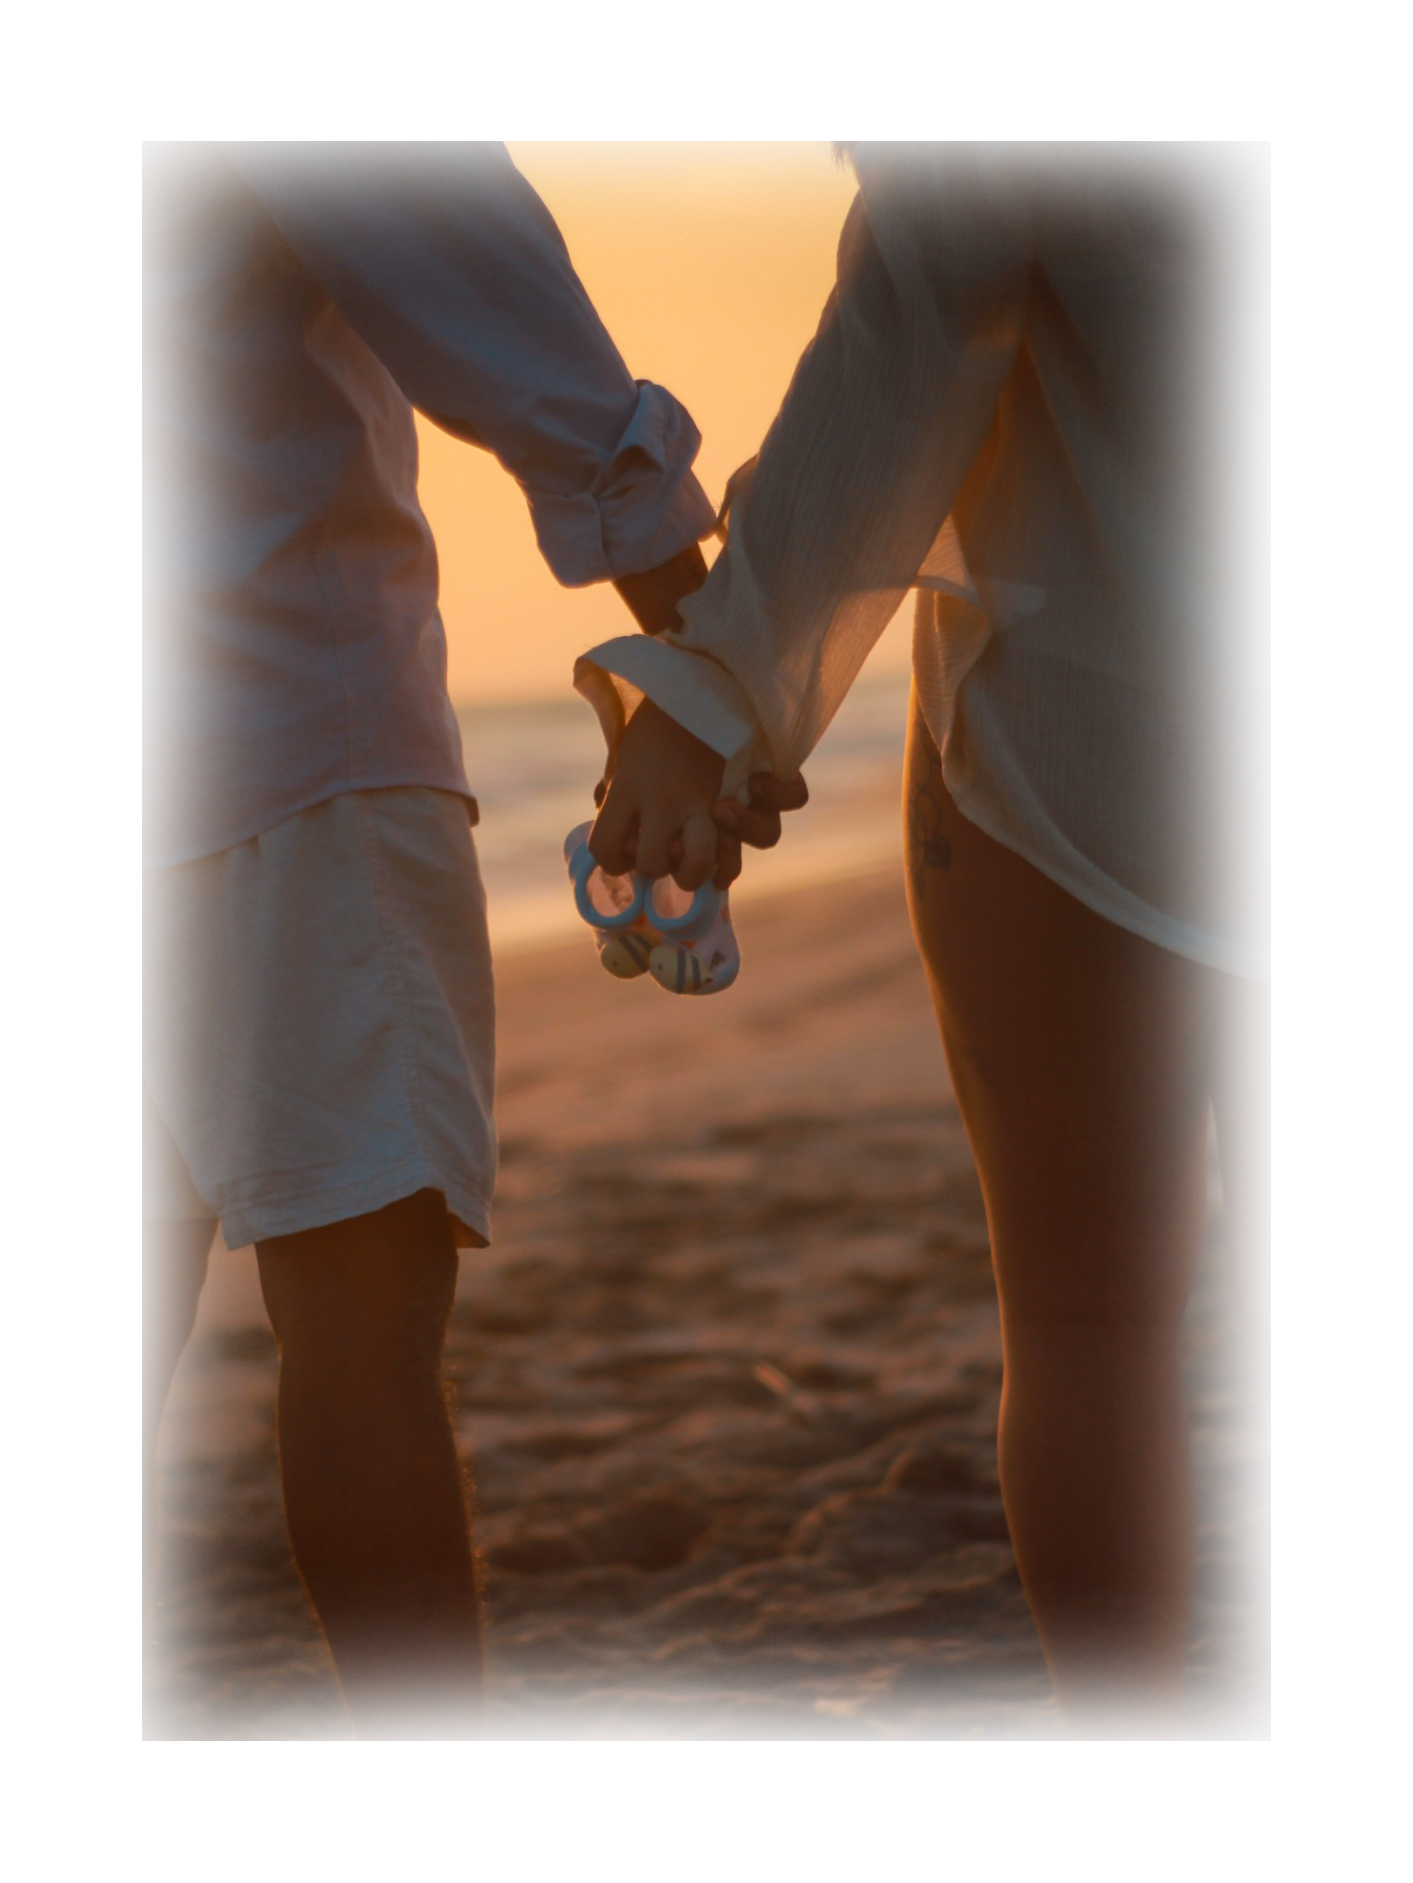
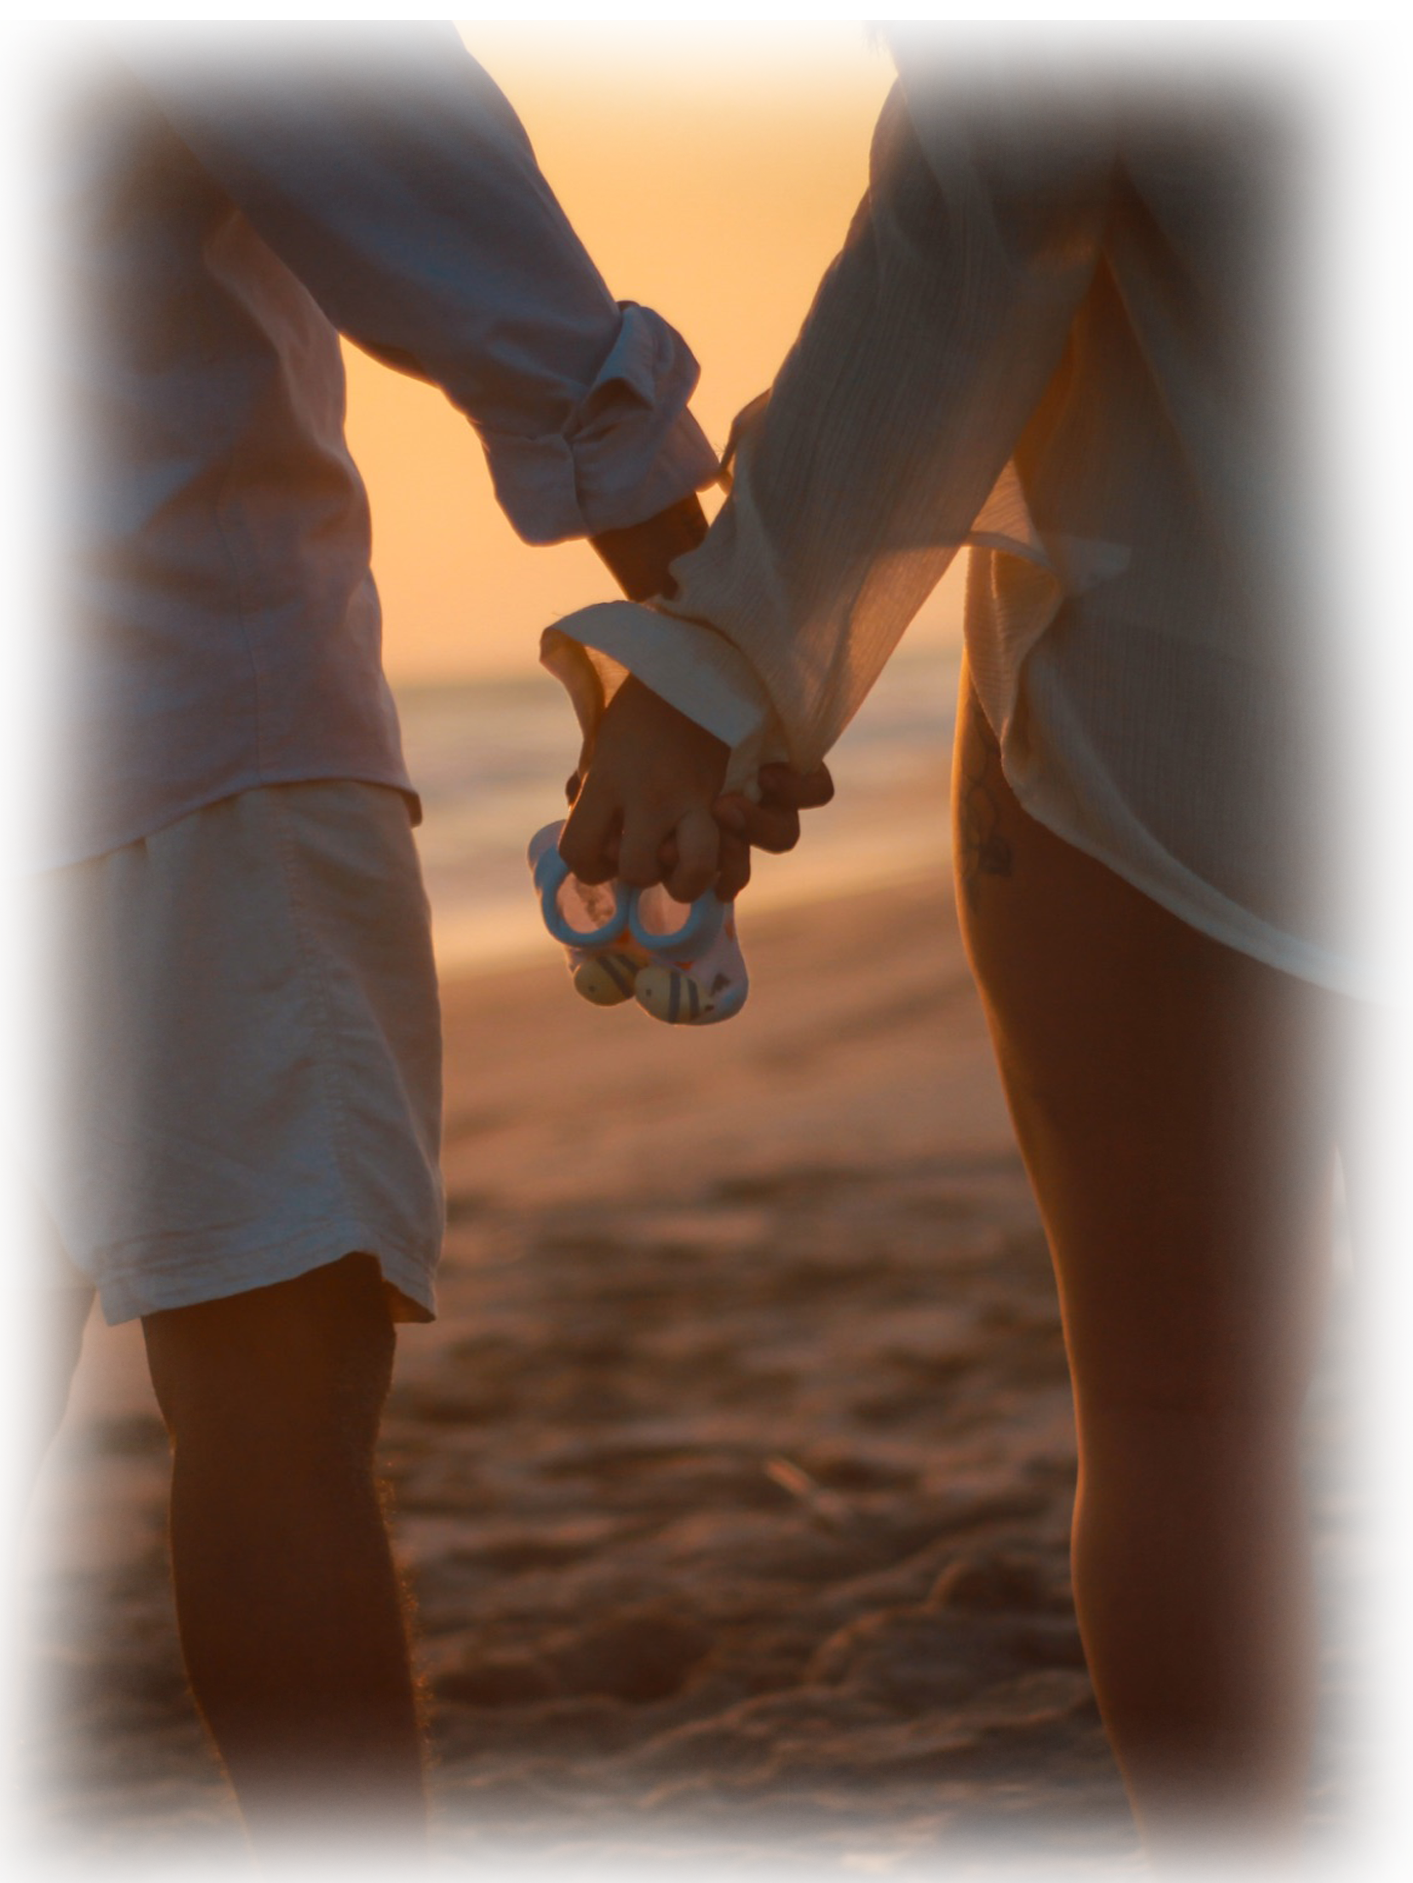
Actualizar referencia de imagen portrait y formato index.html

diff --git a/index.html b/index.html
@@ -70,24 +70,42 @@
        Jerarquía de capas: Fondo (0) -> Estrellas (1) -> Nubes (2) -> Contenido (3)
        ==================================================================== -->
   <div class="stars-parallax-container" id="stars-parallax-container" aria-hidden="true">
-    <div class="parallax-star star-1" data-base-top="18" data-speed="0.22"><img src="assets/images/star.webp" alt=""></div>
-    <div class="parallax-star star-2" data-base-top="42" data-speed="0.32"><img src="assets/images/star.webp" alt=""></div>
-    <div class="parallax-star star-3" data-base-top="68" data-speed="0.18"><img src="assets/images/star.webp" alt=""></div>
-    <div class="parallax-star star-4" data-base-top="115" data-speed="0.28"><img src="assets/images/star.webp" alt=""></div>
-    <div class="parallax-star star-5" data-base-top="175" data-speed="0.35"><img src="assets/images/star.webp" alt=""></div>
-    <div class="parallax-star star-6" data-base-top="235" data-speed="0.20"><img src="assets/images/star.webp" alt=""></div>
-    <div class="parallax-star star-7" data-base-top="295" data-speed="0.38"><img src="assets/images/star.webp" alt=""></div>
-    <div class="parallax-star star-8" data-base-top="355" data-speed="0.25"><img src="assets/images/star.webp" alt=""></div>
-    <div class="parallax-star star-9" data-base-top="415" data-speed="0.30"><img src="assets/images/star.webp" alt=""></div>
-    <div class="parallax-star star-10" data-base-top="475" data-speed="0.16"><img src="assets/images/star.webp" alt=""></div>
-    <div class="parallax-star star-11" data-base-top="535" data-speed="0.34"><img src="assets/images/star.webp" alt=""></div>
-    <div class="parallax-star star-12" data-base-top="595" data-speed="0.22"><img src="assets/images/star.webp" alt=""></div>
-    <div class="parallax-star star-13" data-base-top="655" data-speed="0.27"><img src="assets/images/star.webp" alt=""></div>
-    <div class="parallax-star star-14" data-base-top="715" data-speed="0.36"><img src="assets/images/star.webp" alt=""></div>
-    <div class="parallax-star star-15" data-base-top="775" data-speed="0.19"><img src="assets/images/star.webp" alt=""></div>
-    <div class="parallax-star star-16" data-base-top="835" data-speed="0.33"><img src="assets/images/star.webp" alt=""></div>
-    <div class="parallax-star star-17" data-base-top="885" data-speed="0.24"><img src="assets/images/star.webp" alt=""></div>
-    <div class="parallax-star star-18" data-base-top="935" data-speed="0.29"><img src="assets/images/star.webp" alt=""></div>
+    <div class="parallax-star star-1" data-base-top="18" data-speed="0.22"><img src="assets/images/star.webp" alt="">
+    </div>
+    <div class="parallax-star star-2" data-base-top="42" data-speed="0.32"><img src="assets/images/star.webp" alt="">
+    </div>
+    <div class="parallax-star star-3" data-base-top="68" data-speed="0.18"><img src="assets/images/star.webp" alt="">
+    </div>
+    <div class="parallax-star star-4" data-base-top="115" data-speed="0.28"><img src="assets/images/star.webp" alt="">
+    </div>
+    <div class="parallax-star star-5" data-base-top="175" data-speed="0.35"><img src="assets/images/star.webp" alt="">
+    </div>
+    <div class="parallax-star star-6" data-base-top="235" data-speed="0.20"><img src="assets/images/star.webp" alt="">
+    </div>
+    <div class="parallax-star star-7" data-base-top="295" data-speed="0.38"><img src="assets/images/star.webp" alt="">
+    </div>
+    <div class="parallax-star star-8" data-base-top="355" data-speed="0.25"><img src="assets/images/star.webp" alt="">
+    </div>
+    <div class="parallax-star star-9" data-base-top="415" data-speed="0.30"><img src="assets/images/star.webp" alt="">
+    </div>
+    <div class="parallax-star star-10" data-base-top="475" data-speed="0.16"><img src="assets/images/star.webp" alt="">
+    </div>
+    <div class="parallax-star star-11" data-base-top="535" data-speed="0.34"><img src="assets/images/star.webp" alt="">
+    </div>
+    <div class="parallax-star star-12" data-base-top="595" data-speed="0.22"><img src="assets/images/star.webp" alt="">
+    </div>
+    <div class="parallax-star star-13" data-base-top="655" data-speed="0.27"><img src="assets/images/star.webp" alt="">
+    </div>
+    <div class="parallax-star star-14" data-base-top="715" data-speed="0.36"><img src="assets/images/star.webp" alt="">
+    </div>
+    <div class="parallax-star star-15" data-base-top="775" data-speed="0.19"><img src="assets/images/star.webp" alt="">
+    </div>
+    <div class="parallax-star star-16" data-base-top="835" data-speed="0.33"><img src="assets/images/star.webp" alt="">
+    </div>
+    <div class="parallax-star star-17" data-base-top="885" data-speed="0.24"><img src="assets/images/star.webp" alt="">
+    </div>
+    <div class="parallax-star star-18" data-base-top="935" data-speed="0.29"><img src="assets/images/star.webp" alt="">
+    </div>
   </div>
 
   <!-- ====================================================================
@@ -184,7 +202,7 @@
         <!-- Lazo decorativo grande en la esquina superior izquierda de la foto -->
         <img src="assets/images/lazo1.png" alt="Lazo decorativo superior izquierdo"
           class="hero-corner-ribbon hero-ribbon-top-left" id="hero-corner-ribbon">
-        <img src="assets/images/portrait.jpg?v=2" alt="Celebración del Baby Shower de Lilith" class="hero-photo"
+        <img src="assets/images/portrait.png?v=2" alt="Celebración del Baby Shower de Lilith" class="hero-photo"
           id="hero-portrait-img" width="320" height="427" loading="eager">
         <!-- Lazo decorativo grande en la esquina inferior derecha de la foto -->
         <img src="assets/images/lazo1.png" alt="Lazo decorativo inferior derecho"
@@ -275,7 +293,8 @@
           </p>
         </div>
         <div class="card-obsequio-baby-col" id="card-obsequio-baby">
-          <img src="assets/images/b2.webp" alt="Ilustración bebé en nube con estrellas" class="card-obsequio-baby-img" width="125" height="125">
+          <img src="assets/images/b2.webp" alt="Ilustración bebé en nube con estrellas" class="card-obsequio-baby-img"
+            width="125" height="125">
         </div>
       </div>
     </section>
